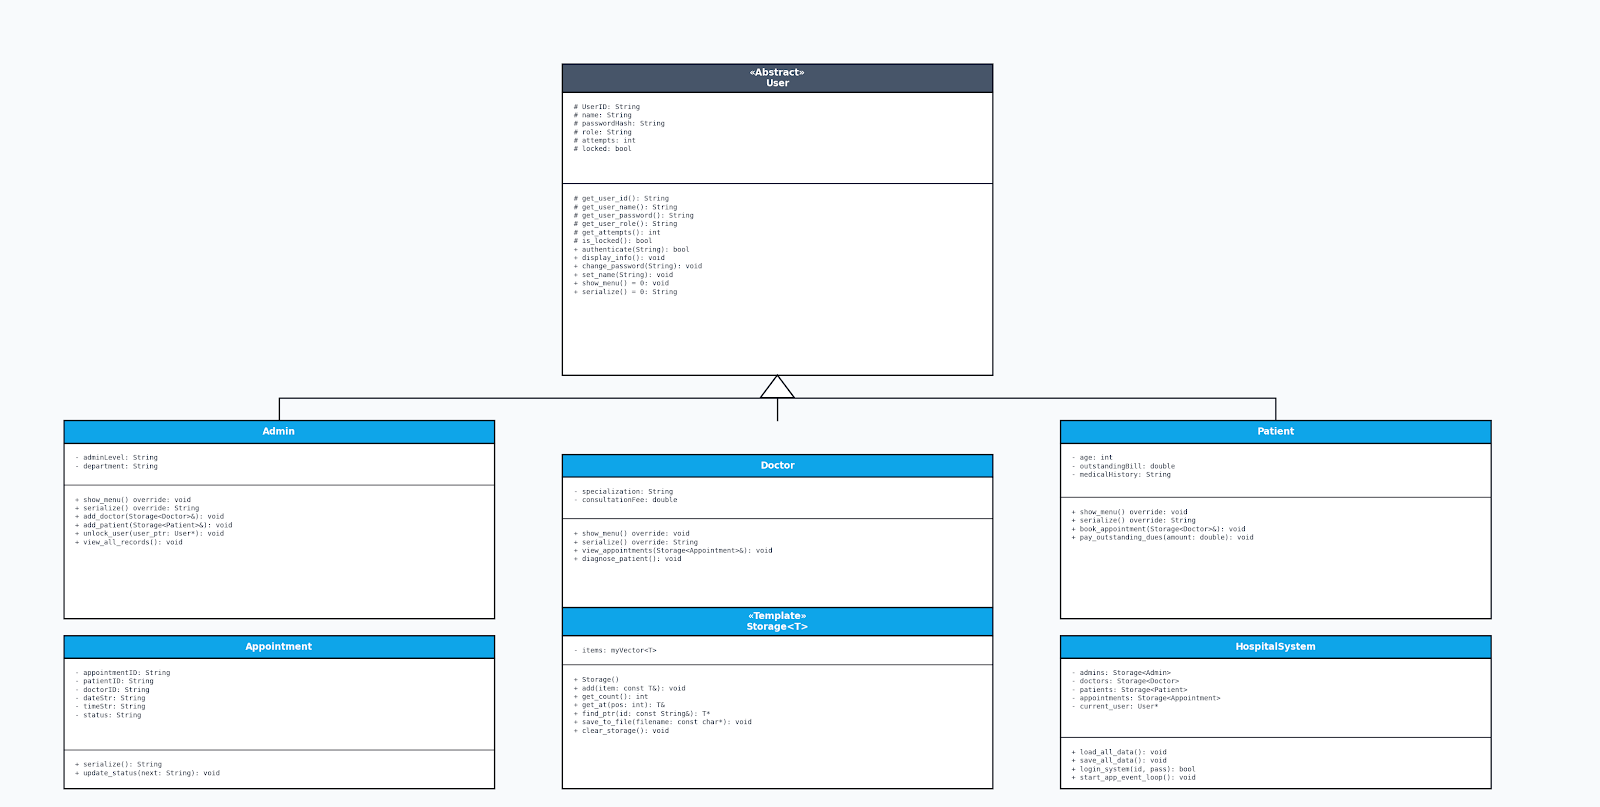
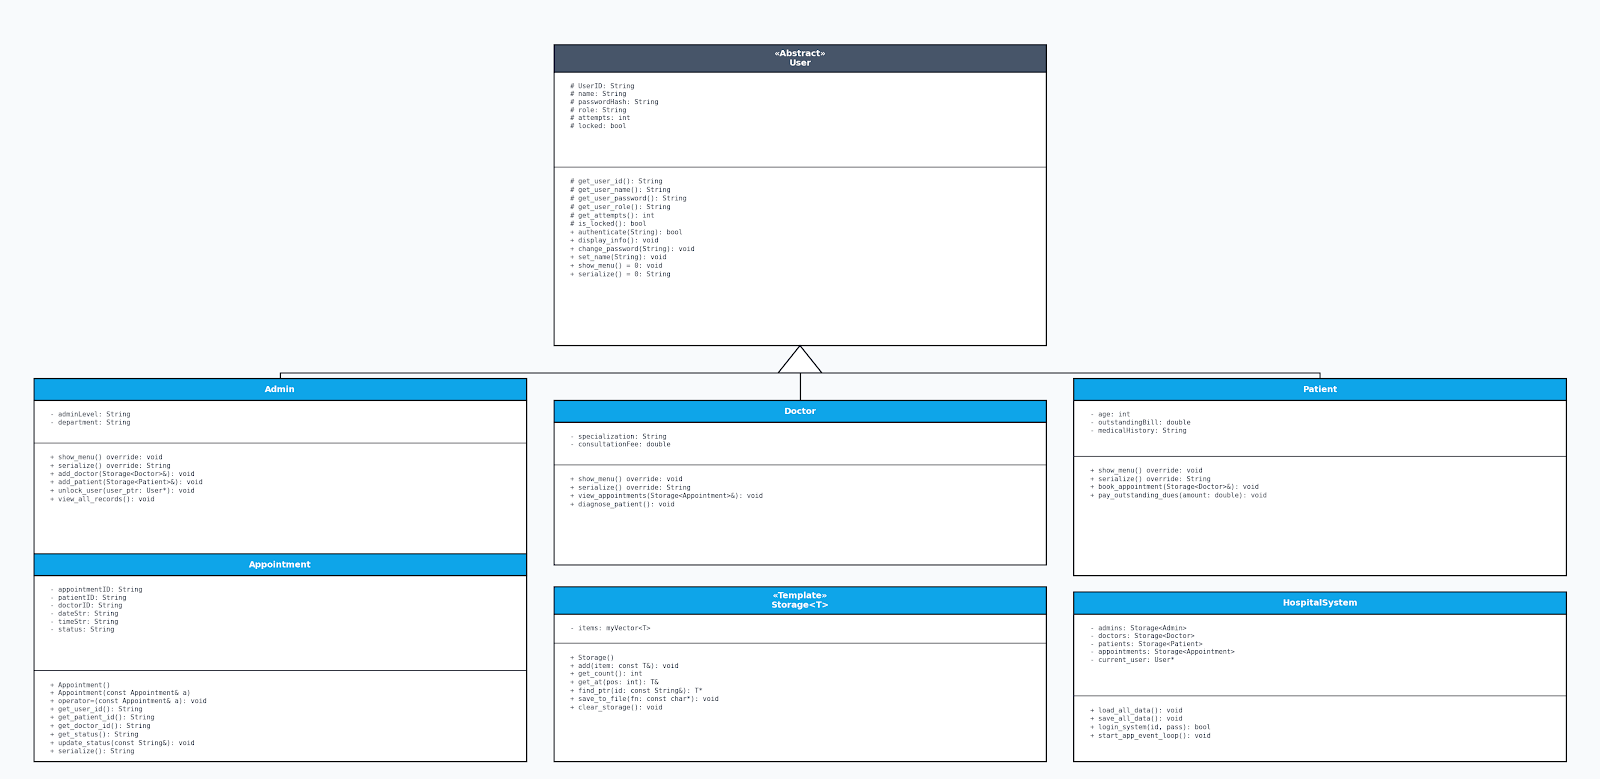
Appointment header file and cpp file

diff --git a/Appointment.cpp b/Appointment.cpp
@@ -1,0 +1,40 @@
+#include "Appointment.h"
+
+Appointment::Appointment() : appointmentID{ "UNINITIALIZED" }, patientID{ "" }, doctorID{ "" }, dateStr{ "" }, timeStr{ "" }, status{ "Pending" } {}
+
+Appointment::Appointment(String apptID, String patID, String docID, String date, String time, String stat) : appointmentID{ apptID }, patientID{ patID }, doctorID{ docID }, dateStr{ date }, timeStr{ time }, status{ stat } {}
+
+Appointment::Appointment(const Appointment& a) : appointmentID{ a.appointmentID }, patientID{ a.patientID }, doctorID{ a.doctorID }, dateStr{ a.dateStr }, timeStr{ a.timeStr }, status{ a.status } {}
+
+void Appointment::operator=(const Appointment& a) {
+	this->appointmentID = a.appointmentID;
+	this->patientID = a.patientID;
+	this->doctorID = a.doctorID;
+	this->dateStr = a.dateStr;
+	this->timeStr = a.timeStr;
+	this->status = a.status;
+}
+
+String Appointment::get_user_id() {
+	return this->appointmentID;
+}
+
+String Appointment::get_patient_id() {
+	return this->patientID;
+}
+
+String Appointment::get_doctor_id() {
+	return this->doctorID;
+}
+
+String Appointment::get_status() {
+	return this->status;
+}
+
+void Appointment::update_status(const String& next_status) {
+	this->status = next_status;
+}
+
+String Appointment::serialize() {
+	return this->appointmentID + "," + this->patientID + "," + this->doctorID + "," + this->dateStr + "," + this->timeStr + "," + this->status;
+}

diff --git a/String.cpp b/String.cpp
@@ -161,9 +161,10 @@ String::String(long long int num) {
 		num /= 10;
 		this->l++;
 	}
-	if (is_neg) insert(0, "-");
+	if (is_neg) {
+		this->insert(0, '-');
+	}
 }
-
 String::String(long int num) : String(static_cast<long long int>(num)) {}
 
 String::String(int num) : String(static_cast<long long int>(num)) {}
@@ -176,8 +177,18 @@ String::String(double num) {
 	}
 	long long int intPart = num;
 	double fracPart = num - intPart;
-	String intStr{intPart};
-	if (is_neg) intStr.insert(0, '-');
+	this->l = 1;
+	this->s = new char[this->l + 1];
+	this->s[0] = (intPart % 10) + '0';
+	num /= 10;
+	this->s[1] = '\0';
+	for (int i = 0; intPart != 0; i++) {
+		this->s = regrow(this->s, 1, 0);
+		this->s[0] = (intPart % 10) + '0';
+		intPart /= 10;
+		this->l++;
+	}
+	if (is_neg) insert(0, '-');
 	int precision = 6;
 	String fracStr;
 	for (int i = 0; i < precision; i++) {
@@ -191,18 +202,10 @@ String::String(double num) {
 	}
 
 	if (fracStr.Length() > 0) {
-		intStr += ".";
-		intStr += fracStr;
+		operator+=(".");
+		operator+=(fracStr);
 	}
-
-	this->l = intStr.l;
-	this->s = new char[this->l + 1];
-	for (int i = 0; i < this->l; i++) {
-		this->s[i] = intStr[i];
-	}
-	this->s[this->l] = '\0';
 }
-
 
 
 String::~String() {
@@ -212,8 +215,7 @@ String::~String() {
 String& String::operator=(const String& str) {
 	if (this->s != str.s) {
 		this->l = str.l;
-		//if (this->s != nullptr) 
-		delete[] this->s;
+		if (this->s != nullptr) delete[] this->s;
 		this->s = new char[this->l + 1];
 		for (int i = 0; i < this->l; i++) {
 			this->s[i] = str.s[i];

diff --git a/User.cpp b/User.cpp
@@ -8,19 +8,35 @@ String User::get_user_name() {
 	return this->name;
 }
 
+String User::get_password() {
+	return this->passwordHash;
+}
+
 String User::get_user_role() {
 	return this->role;
 }
 
-User::User(String id, String n, String p, String r) : UserID{ id }, name{ n }, passwordHash{ p }, role{ r } {}
+int User::get_attempts() {
+	return this->attempts;
+}
 
-User::User(const User& u) : UserID{ u.UserID }, name{ u.name }, passwordHash{ u.passwordHash }, role{ u.role } {}
+bool User::is_locked() {
+	return this->locked;
+}
+
+User::User() : UserID{ "UNINITIALIZED" }, name{ "" }, passwordHash{ "" }, role{ "" }, attempts{ 0 }, locked{ false } {}
+
+User::User(String id, String n, String p, String r, int a, bool l) : UserID{ id }, name{ n }, passwordHash{ p }, role{ r }, attempts{ a }, locked{ l } {}
+
+User::User(const User& u) : UserID{ u.UserID }, name{ u.name }, passwordHash{ u.passwordHash }, role{ u.role }, attempts{ u.attempts }, locked{ u.locked } {}
 
 void User::operator=(const User& u) {
 	this->UserID = u.UserID;
 	this->name = u.name;
 	this->passwordHash = u.passwordHash;
 	this->role = u.role;
+	this->attempts = u.attempts;
+	this->locked = u.locked;
 }
 
 bool User::authenticate(String pass) {
@@ -32,3 +48,10 @@ void User::display_info() {
 	std::cout << this->UserID << " " << this->name << " " << this->role;
 }
 
+void User::change_password(String newPass) {
+	this->passwordHash = newPass;
+}
+
+void User::set_name(String newName) {
+	this->name = newName;
+}

diff --git a/myVector.h b/myVector.h
@@ -10,19 +10,21 @@ class myVector {
 	int c;
 	t v;
 	t* regrow(t* old_ptr) {
-		t* new_ptr = new t[this->c * 2];
+		int temp;
+		if (this->c == 0) temp = 1;
+		else temp = this->c * 2;
+		t* new_ptr = new t[temp];
 		for (int i = 0; i < this->c; i++) {
 			new_ptr[i] = old_ptr[i];
 		}
-		for (int i = this->c; i < this->c * 2; i++) {
+		for (int i = this->c; i < temp; i++) {
 			new_ptr[i] = this->v;
 		}
 		delete[] old_ptr;
-		this->c *= 2;
+		this->c = temp;
 		return new_ptr;
 	}
 public:
-	//myVector();
 	myVector(t val, int cap = 0) : s{ 0 }, c{ cap }, v{ val } {
 		this->ptr = new t[cap];
 		for (int i = 0; i < this->c; i++) {
@@ -30,7 +32,7 @@ public:
 		}
 	}
 	~myVector() {
-
+		delete[] this->ptr;
 	}
 	void display() {
 		cout << "Size : " << this->s << "\t" << "Capacity : " << this->c << endl;
@@ -69,6 +71,16 @@ public:
 		}
 		catch (...) {
 			cout << "Invalid position.\n";
+			return this->v;
+		}
+	}
+	t& get_live_reference_at(int pos) {
+		try {
+			if (pos < 0 || pos > this->s - 1) throw(1);
+			return this->ptr[pos];
+		}
+		catch (...) {
+			cout << "Invalid Position.\n";
 			return this->v;
 		}
 	}
@@ -139,6 +151,9 @@ public:
 		this->ptr = temp;
 	}
 	void clear() {
+		for (int i = 0; i < this->s; i++) {
+			this->s[i] = this->v;
+		}
 		this->s = 0;
 	}
 	void push_back(t val) {

diff --git a/Appointment.h b/Appointment.h
@@ -1,0 +1,24 @@
+#pragma once
+#include "String.h"
+
+class Appointment {
+private:
+	String appointmentID;
+	String patientID;
+	String doctorID;
+	String dateStr;
+	String timeStr;
+	String status;
+
+public:
+	Appointment();
+	Appointment(String, String, String, String, String, String = "Pending");
+	Appointment(const Appointment&);
+	void operator=(const Appointment&);
+	String get_user_id();
+	String get_patient_id();
+	String get_doctor_id();
+	String get_status();
+	void update_status(const String&);
+	String serialize();
+};

diff --git a/User.h b/User.h
@@ -7,17 +7,24 @@ protected:
 	String name;
 	String passwordHash;
 	String role;
-	
+	int attempts;
+	bool locked;
+
 	String get_user_id();
 	String get_user_name();
+	String get_password();
 	String get_user_role();
+	int get_attempts();
+	bool is_locked();
 public:
-	User(String, String, String, String);
+	User();
+	User(String, String, String, String, int, bool);
 	User(const User&);
 	void operator=(const User&);
 	bool authenticate(String);
 	virtual void display_info();
+	void change_password(String);
+	void set_name(String);
 	virtual void show_menu() = 0;
-	virtual void serialize() = 0;
-	virtual void deserialize(String) = 0;
+	virtual String serialize() = 0;
 };

diff --git a/String.h b/String.h
@@ -26,10 +26,10 @@ public:
 	String();
 	String(const char*);
 	String(const String&);
-	String(long long int);
-	String(long int);
-	String(int);
-	String(double);
+	explicit String(double);
+	explicit String(long long int);
+	explicit String(long int);
+	explicit String(int);
 	~String();
 	String& operator=(const String&);
 	void Print();

diff --git a/Storage.h b/Storage.h
@@ -5,6 +5,7 @@
 
 template<typename T>
 class Storage {
+private:
 	myVector<T> items;
 public:
 	Storage() : items(T(), 0) {}
@@ -17,7 +18,7 @@ public:
 	T& get_at(int pos) {
 		return items.get_live_reference_at(pos);
 	}
-	T* find_ptr(String id) {
+	T* find_ptr(const String& id) {
 		int size = items.size();
 		for (int i = 0; i < size; i++) {
 			if (items.get_live_reference_at(i).get_user_id() == id) {

diff --git a/README.md b/README.md
@@ -19,7 +19,7 @@ Custom Built Template Based Vector Class used throughout this project
 
 User (Abstract Base Class) :
 
-Imports and uses custom built String
+Imports and Uses custom built String.
 
 Protected Attributes :
 
@@ -30,7 +30,7 @@ Protected Attributes :
     int attempts; #These are the User's failed attempts after which the account will be locked.
     bool locked; #Stores the current state of the account. Active/Locked.
 
-Protected Functions :
+Protected Methods :
 
     String get_user_id(); #returns UserID.
     String get_user_name(); #returns name.
@@ -39,12 +39,13 @@ Protected Functions :
     int get_attempts(); #returns attempts.
     bool is_locked(); #returns locked.
 
-Public Functions :
+Public Methods :
 
     Constructors : 
+        User(); #Default Constructor, Useful when creating Storage.
         User(String, String, String, String, int, bool); #Parameterized constructor.
         User(const User&); #Copy Constructor.
-    Other Functions : 
+    Other Methods : 
         void operator=(const User&); #Assignment Function.
         bool authenticate(String); #Check whether password passed as arugument is same as User password.
         virtual void display_info(); #Outputs User Information, Can be overridden by derived classes to customise the information to output.
@@ -54,18 +55,20 @@ Public Functions :
         virtual void serialize() = 0; #Pure Virtual Function will be defined in derived classes.
         virtual void deserialize(String) = 0; #Pure Virtual Function will be defined in derived classes.
 
+
 Storage<T> :
 Template Based Class used as a container to store and manage Objects.
 
-Imports and Uses custom built String and Vector Class.
+Imports and Uses custom built String and Vector.
 
 Private Attributes : 
+
     myVector<T> items; #Holds the Objects in a Vector.
 
-Public Functions :
+Public Methods :
 
     Constructors : 
-        Storage() : items(T(), 0) {} #Creates an empty Vector with Capacity 0 of the desired Type.
+        Storage() : items(T(), 0); #Creates an empty Vector with Capacity 0 of the desired Type.
     Other Functions :
         void add(const T& item); #Adds an Object to the Vector items.
         int get_count(); #Returns the number of items currently in the Vector items.
@@ -73,3 +76,35 @@ Public Functions :
         T* find_ptr(const String& id); #Checks the Vector items for the desired id, if it exists returns it else returns nullptr.
         void save_to_file(const char* filename); #Saves all the current Object's data to the file provided as argument.
         void clear_storage(); #Clears all Objects currently in Vector items.
+
+
+Apppointment : 
+
+Used to track Appointments Patients have with Doctors. 
+
+Imports and Uses custom built String.
+
+Private Attributes : 
+
+    String appointmentID; #Unique for each appointment.
+    String patientID; #ID of the patient the appoinment is for.
+    String doctorID; #ID of the doctor responsible for the patient.
+    String dateStr;  #Date of when the appointment is scheduled.
+    String timeStr; #Time of when the appointment is scheduled.
+    String status; #Status of the appointment whether it is completed or pending.
+
+Public Methods :
+
+    Constructors : 
+        Appointment(); #Default constructor, Useful when creating store for Appointment.
+        Appointment(String, String, String, String, String, String = "Pending"); #Parameterized Constructor, Status is set as Pending by Default.
+        Appointment(const Appointment&); #Copy Constructor.
+    Other Methods :
+        void operator=(const Appointment&); #Assignment Function.
+        String get_user_id(); #Returns the appointmentID, named get_user_id so it works polymorphically when Storage is created and find_ptr is called.
+        String get_patient_id(); #returns patiendID.
+        String get_doctor_id(); #returns doctorID.
+        String get_status(); #returns status.
+        void update_status(const String&); #Changes status to argument passed.
+        String serialize(); #Formats data into a String in CSV format to be stored in files. Returns the String.
+